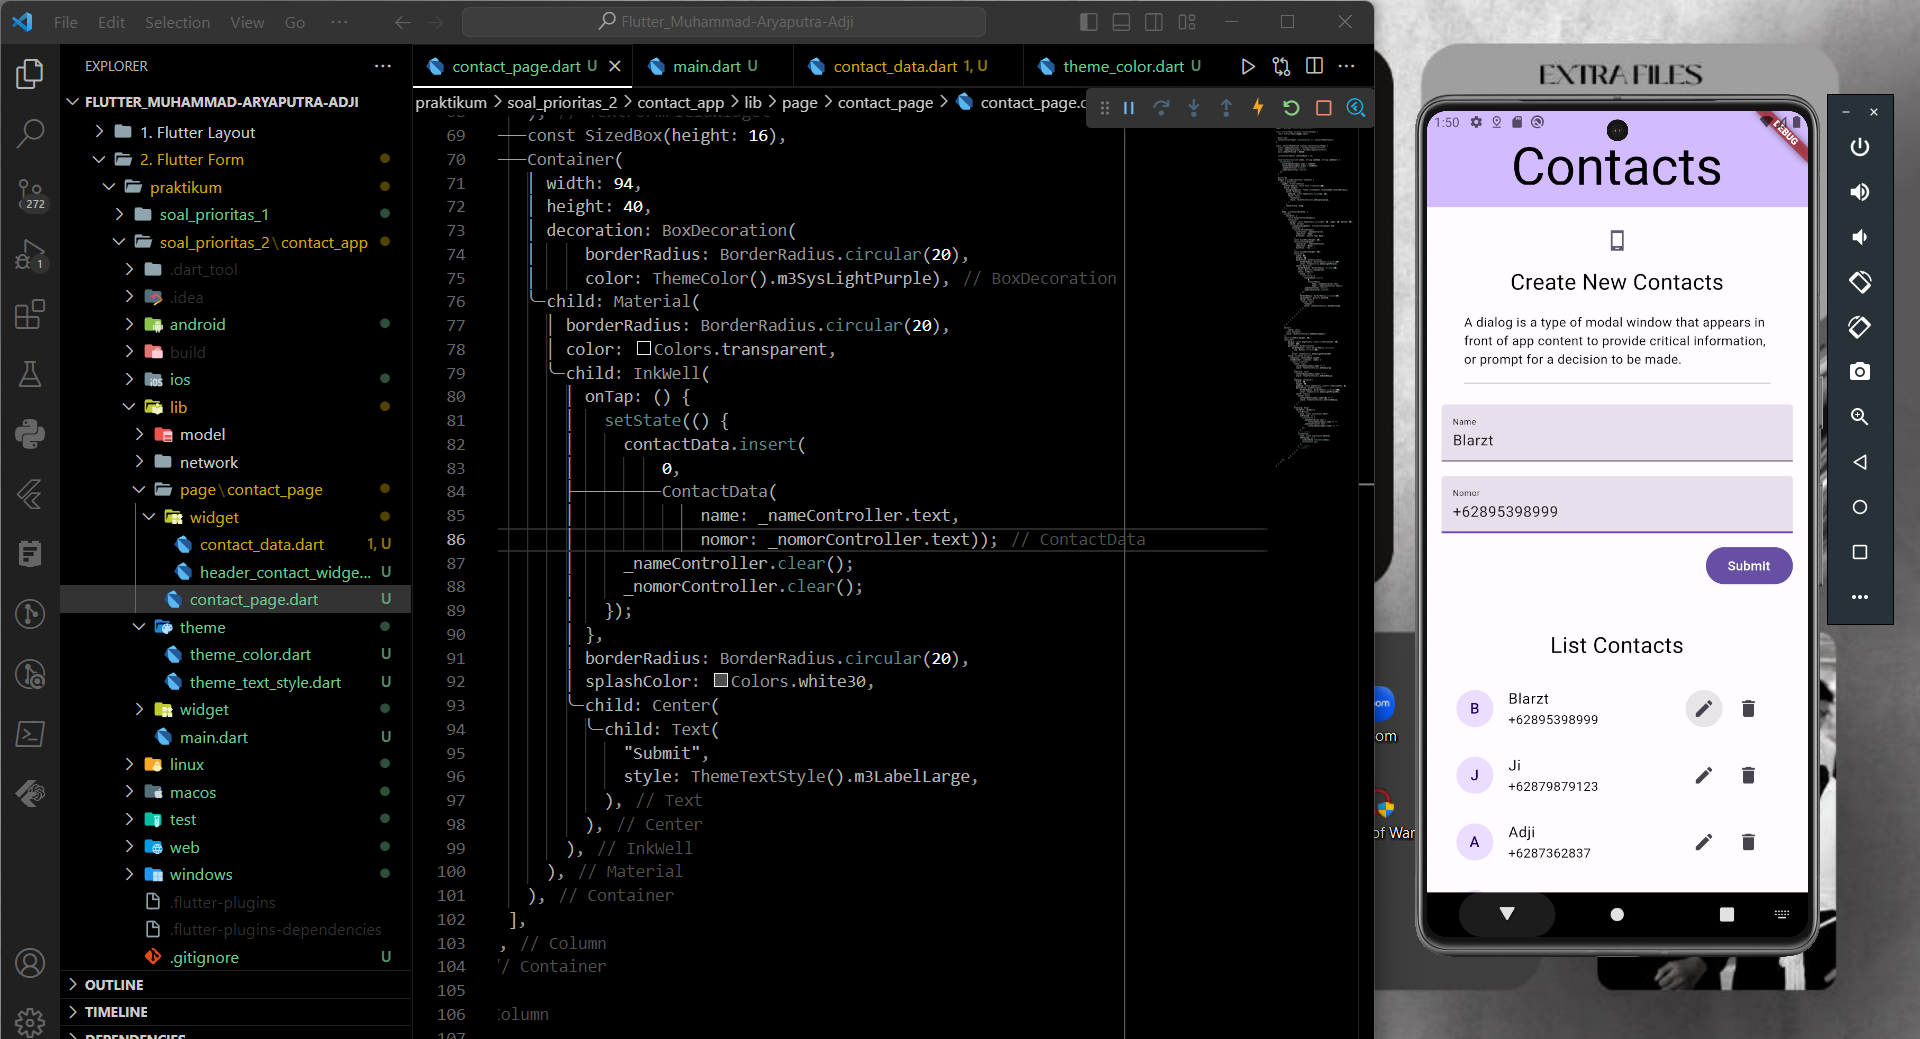
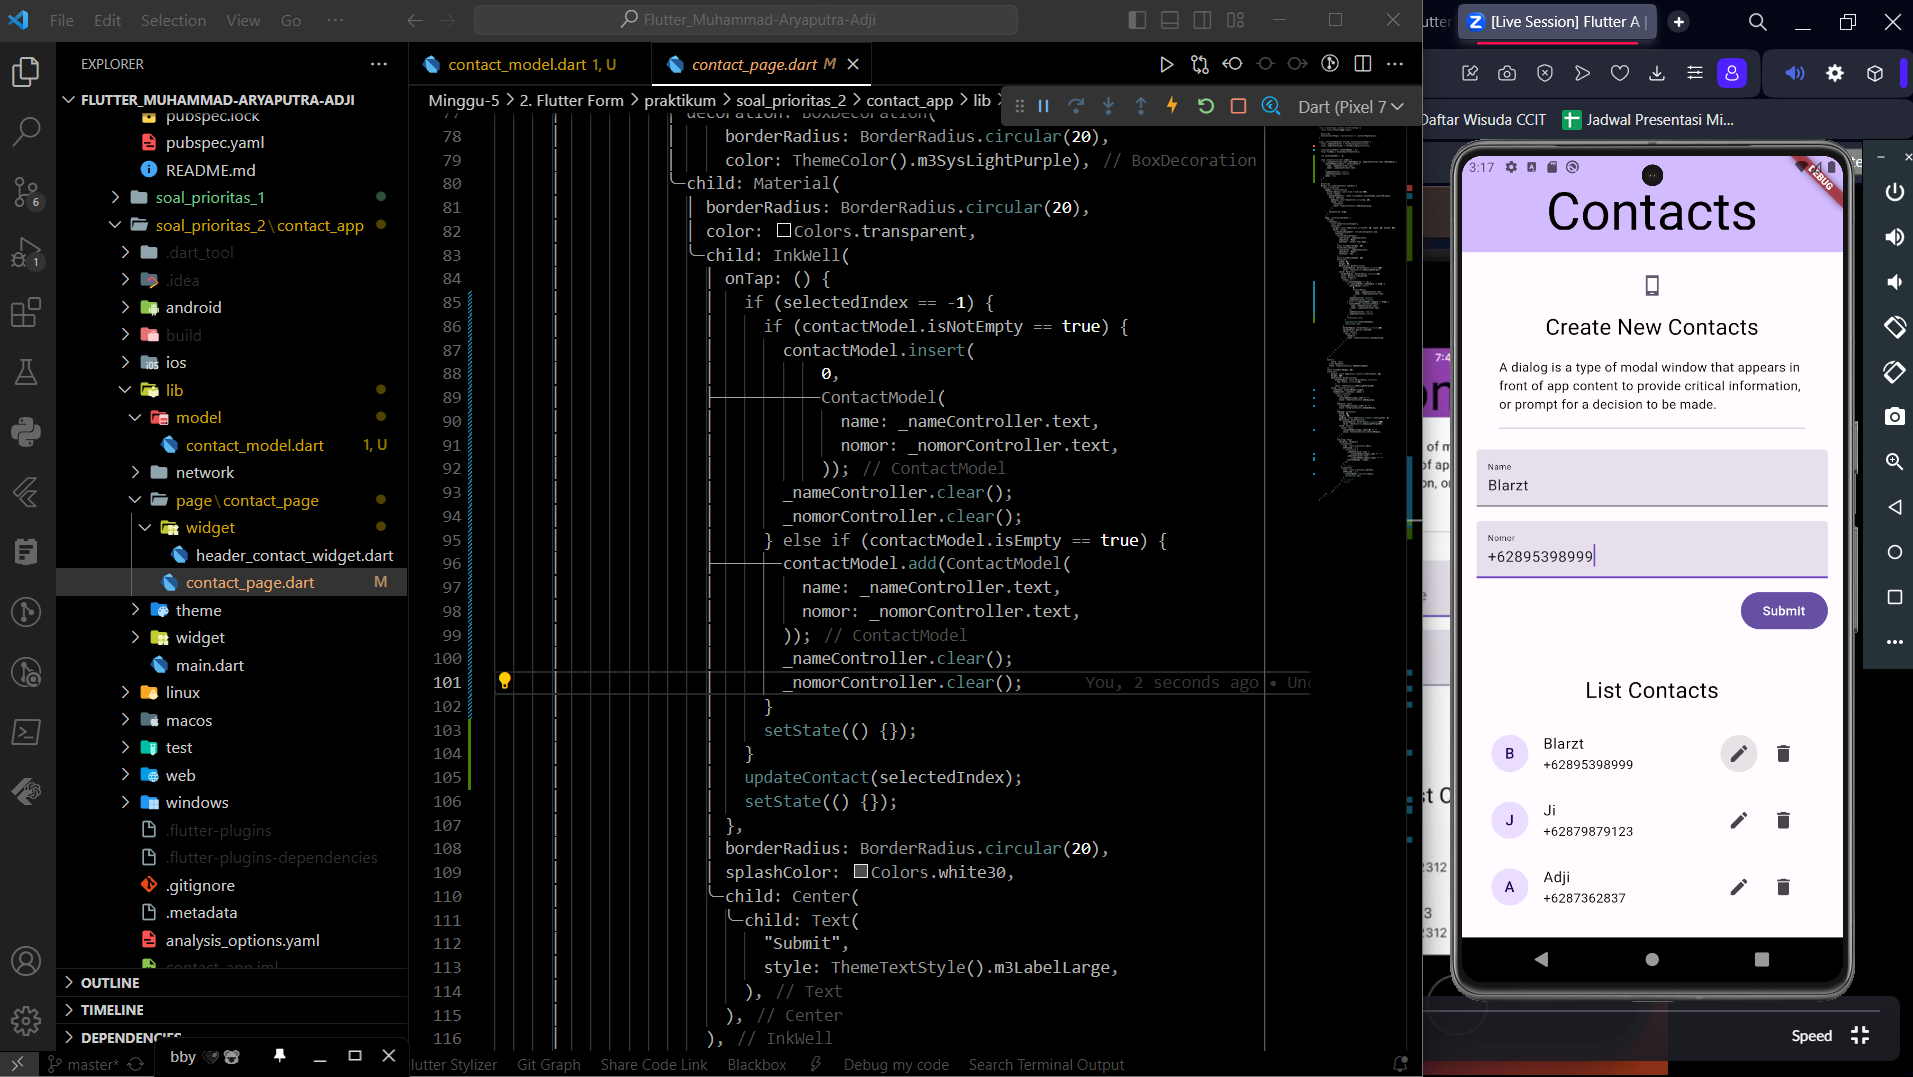
edit dikit tugas flutter form

Changed region(s): [[0.0, 0.0, 1.0, 1.0], [0.8019, 0.616, 0.8944, 0.6468]]

diff --git a/Minggu-5/2. Flutter Form/praktikum/soal_eksplorasi/contact_app/lib/page/contact_page/contact_page.dart b/Minggu-5/2. Flutter Form/praktikum/soal_eksplorasi/contact_app/lib/page/contact_page/contact_page.dart
@@ -1,4 +1,4 @@
-import 'package:contact_app/page/contact_page/widget/contact_data.dart';
+import 'package:contact_app/model/contact_model.dart';
 import 'package:contact_app/page/contact_page/widget/header_contact_widget.dart';
 
 import 'package:contact_app/theme/theme_color.dart';
@@ -16,11 +16,23 @@ class ContactPage extends StatefulWidget {
 class _ContactPageState extends State<ContactPage> {
   final _nameController = TextEditingController();
   final _nomorController = TextEditingController();
-  bool isEditPressed = false;
 
-  List<ContactData> contactData = [];
-
+  List<ContactModel> contactModel = [];
   final formKey = GlobalKey<FormState>();
+
+  int selectedIndex = -1;
+
+  void updateContact(int index) {
+    if (_nameController.text.isNotEmpty && _nomorController.text.isNotEmpty) {
+      contactModel[index] = ContactModel(
+        name: _nameController.text,
+        nomor: _nomorController.text,
+      );
+      _nameController.clear();
+      _nomorController.clear();
+      index = -1;
+    }
+  }
 
   @override
   Widget build(BuildContext context) {
@@ -103,23 +115,27 @@ class _ContactPageState extends State<ContactPage> {
                         child: InkWell(
                           onTap: () {
                             if (formKey.currentState?.validate() == true) {
-                              if (contactData.isNotEmpty == true) {
-                                contactData.insert(
-                                    0,
-                                    ContactData(
-                                      name: _nameController.text,
-                                      nomor: _nomorController.text,
-                                    ));
-                                _nameController.clear();
-                                _nomorController.clear();
-                              } else if (contactData.isEmpty == true) {
-                                contactData.add(ContactData(
-                                  name: _nameController.text,
-                                  nomor: _nomorController.text,
-                                ));
-                                _nameController.clear();
-                                _nomorController.clear();
+                              if (selectedIndex == -1) {
+                                if (contactModel.isNotEmpty == true) {
+                                  contactModel.insert(
+                                      0,
+                                      ContactModel(
+                                        name: _nameController.text,
+                                        nomor: _nomorController.text,
+                                      ));
+                                  _nameController.clear();
+                                  _nomorController.clear();
+                                } else if (contactModel.isEmpty == true) {
+                                  contactModel.add(ContactModel(
+                                    name: _nameController.text,
+                                    nomor: _nomorController.text,
+                                  ));
+                                  _nameController.clear();
+                                  _nomorController.clear();
+                                }
+                                setState(() {});
                               }
+                              updateContact(selectedIndex);
                               setState(() {});
                             }
                           },
@@ -155,15 +171,15 @@ class _ContactPageState extends State<ContactPage> {
                 ),
                 color: ThemeColor().m3SysLightPurple50),
             child: ListView.builder(
-              itemCount: contactData.length,
+              itemCount: contactModel.length,
               itemBuilder: (context, index) {
                 return ListTile(
                   title: Text(
-                    contactData[index].name ?? "",
+                    contactModel[index].name ?? "",
                     style: ThemeTextStyle().m3BodyLarge,
                   ),
                   subtitle: Text(
-                    contactData[index].nomor ?? "",
+                    contactModel[index].nomor ?? "",
                     style: ThemeTextStyle().m3BodyMedium,
                   ),
                   leading: Container(
@@ -175,7 +191,7 @@ class _ContactPageState extends State<ContactPage> {
                         color: ThemeColor().m3SysLightPurple90),
                     child: Center(
                       child: Text(
-                        contactData[index].name?[0] ?? "",
+                        contactModel[index].name?[0] ?? "",
                         style: ThemeTextStyle().m3TitleMedium,
                       ),
                     ),
@@ -187,16 +203,17 @@ class _ContactPageState extends State<ContactPage> {
                         onPressed: () {
                           setState(() {
                             _nameController.text =
-                                contactData[index].name ?? "";
+                                contactModel[index].name ?? "";
                             _nomorController.text =
-                                contactData[index].nomor ?? "";
+                                contactModel[index].nomor ?? "";
+                            selectedIndex = index;
                           });
                         },
                       ), // icon-1
                       IconButton(
                         icon: const Icon(Icons.delete),
                         onPressed: () {
-                          contactData.removeAt(index);
+                          contactModel.removeAt(index);
                           setState(() {});
                         },
                       ), // icon-1

diff --git a/Minggu-5/2. Flutter Form/praktikum/soal_prioritas_2/contact_app/lib/page/contact_page/contact_page.dart b/Minggu-5/2. Flutter Form/praktikum/soal_prioritas_2/contact_app/lib/page/contact_page/contact_page.dart
@@ -1,6 +1,5 @@
-import 'package:contact_app/page/contact_page/widget/contact_data.dart';
+import 'package:contact_app/model/contact_model.dart';
 import 'package:contact_app/page/contact_page/widget/header_contact_widget.dart';
-
 import 'package:contact_app/theme/theme_color.dart';
 import 'package:contact_app/theme/theme_text_style.dart';
 import 'package:contact_app/widget/text_form_field_widget.dart';
@@ -16,11 +15,23 @@ class ContactPage extends StatefulWidget {
 class _ContactPageState extends State<ContactPage> {
   final _nameController = TextEditingController();
   final _nomorController = TextEditingController();
-  bool isEditPressed = false;
 
-  List<ContactData> contactData = [];
-
+  List<ContactModel> contactModel = [];
   final formKey = GlobalKey<FormState>();
+
+  int selectedIndex = -1;
+
+  void updateContact(int index) {
+    if (_nameController.text.isNotEmpty && _nomorController.text.isNotEmpty) {
+      contactModel[index] = ContactModel(
+        name: _nameController.text,
+        nomor: _nomorController.text,
+      );
+      _nameController.clear();
+      _nomorController.clear();
+      index = -1;
+    }
+  }
 
   @override
   Widget build(BuildContext context) {
@@ -71,23 +82,27 @@ class _ContactPageState extends State<ContactPage> {
                       color: Colors.transparent,
                       child: InkWell(
                         onTap: () {
-                          if (contactData.isNotEmpty == true) {
-                            contactData.insert(
-                                0,
-                                ContactData(
-                                  name: _nameController.text,
-                                  nomor: _nomorController.text,
-                                ));
-                            _nameController.clear();
-                            _nomorController.clear();
-                          } else if (contactData.isEmpty == true) {
-                            contactData.add(ContactData(
-                              name: _nameController.text,
-                              nomor: _nomorController.text,
-                            ));
-                            _nameController.clear();
-                            _nomorController.clear();
+                          if (selectedIndex == -1) {
+                            if (contactModel.isNotEmpty == true) {
+                              contactModel.insert(
+                                  0,
+                                  ContactModel(
+                                    name: _nameController.text,
+                                    nomor: _nomorController.text,
+                                  ));
+                              _nameController.clear();
+                              _nomorController.clear();
+                            } else if (contactModel.isEmpty == true) {
+                              contactModel.add(ContactModel(
+                                name: _nameController.text,
+                                nomor: _nomorController.text,
+                              ));
+                              _nameController.clear();
+                              _nomorController.clear();
+                            }
+                            setState(() {});
                           }
+                          updateContact(selectedIndex);
                           setState(() {});
                         },
                         borderRadius: BorderRadius.circular(20),
@@ -121,15 +136,15 @@ class _ContactPageState extends State<ContactPage> {
                 ),
                 color: ThemeColor().m3SysLightPurple50),
             child: ListView.builder(
-              itemCount: contactData.length,
+              itemCount: contactModel.length,
               itemBuilder: (context, index) {
                 return ListTile(
                   title: Text(
-                    contactData[index].name ?? "",
+                    contactModel[index].name ?? "",
                     style: ThemeTextStyle().m3BodyLarge,
                   ),
                   subtitle: Text(
-                    contactData[index].nomor ?? "",
+                    contactModel[index].nomor ?? "",
                     style: ThemeTextStyle().m3BodyMedium,
                   ),
                   leading: Container(
@@ -141,7 +156,7 @@ class _ContactPageState extends State<ContactPage> {
                         color: ThemeColor().m3SysLightPurple90),
                     child: Center(
                       child: Text(
-                        contactData[index].name?[0] ?? "",
+                        contactModel[index].name?[0] ?? "",
                         style: ThemeTextStyle().m3TitleMedium,
                       ),
                     ),
@@ -153,16 +168,17 @@ class _ContactPageState extends State<ContactPage> {
                         onPressed: () {
                           setState(() {
                             _nameController.text =
-                                contactData[index].name ?? "";
+                                contactModel[index].name ?? "";
                             _nomorController.text =
-                                contactData[index].nomor ?? "";
+                                contactModel[index].nomor ?? "";
+                            selectedIndex = index;
                           });
                         },
                       ), // icon-1
                       IconButton(
                         icon: const Icon(Icons.delete),
                         onPressed: () {
-                          contactData.removeAt(index);
+                          contactModel.removeAt(index);
                           setState(() {});
                         },
                       ), // icon-1

diff --git a/Minggu-5/2. Flutter Form/praktikum/soal_eksplorasi/contact_app/lib/model/contact_model.dart b/Minggu-5/2. Flutter Form/praktikum/soal_eksplorasi/contact_app/lib/model/contact_model.dart
@@ -1,8 +1,8 @@
 import 'package:contact_app/page/contact_page/contact_page.dart';
 
-class ContactData extends ContactPage {
+class ContactModel extends ContactPage {
   String? name;
   String? nomor;
 
-  ContactData({super.key, this.name, this.nomor});
+  ContactModel({super.key, this.name, this.nomor});
 }

diff --git a/Minggu-5/2. Flutter Form/praktikum/soal_prioritas_2/contact_app/lib/model/contact_model.dart b/Minggu-5/2. Flutter Form/praktikum/soal_prioritas_2/contact_app/lib/model/contact_model.dart
@@ -1,8 +1,8 @@
 import 'package:contact_app/page/contact_page/contact_page.dart';
 
-class ContactData extends ContactPage {
+class ContactModel extends ContactPage {
   String? name;
   String? nomor;
 
-  ContactData({super.key, this.name, this.nomor});
+  ContactModel({super.key, this.name, this.nomor});
 }

diff --git a/Minggu-5/2. Flutter Form/README.md b/Minggu-5/2. Flutter Form/README.md
@@ -59,6 +59,8 @@ Ada beberapa komponen penting dalam Flutter Form:
 
 ![edit_data.png](screenshot/soal_prioritas_2/edit_data_2.png "Mengambil data pada ListTile yang ditekan tombol editnya")
 
+![edit_data.png](screenshot/soal_prioritas_2/edit_data_3.png "Hasil edit Nama Blarzt berubah menjadi Blarzttt")
+
 <br>
 
 ### **SOAL EKSPLORASI**
